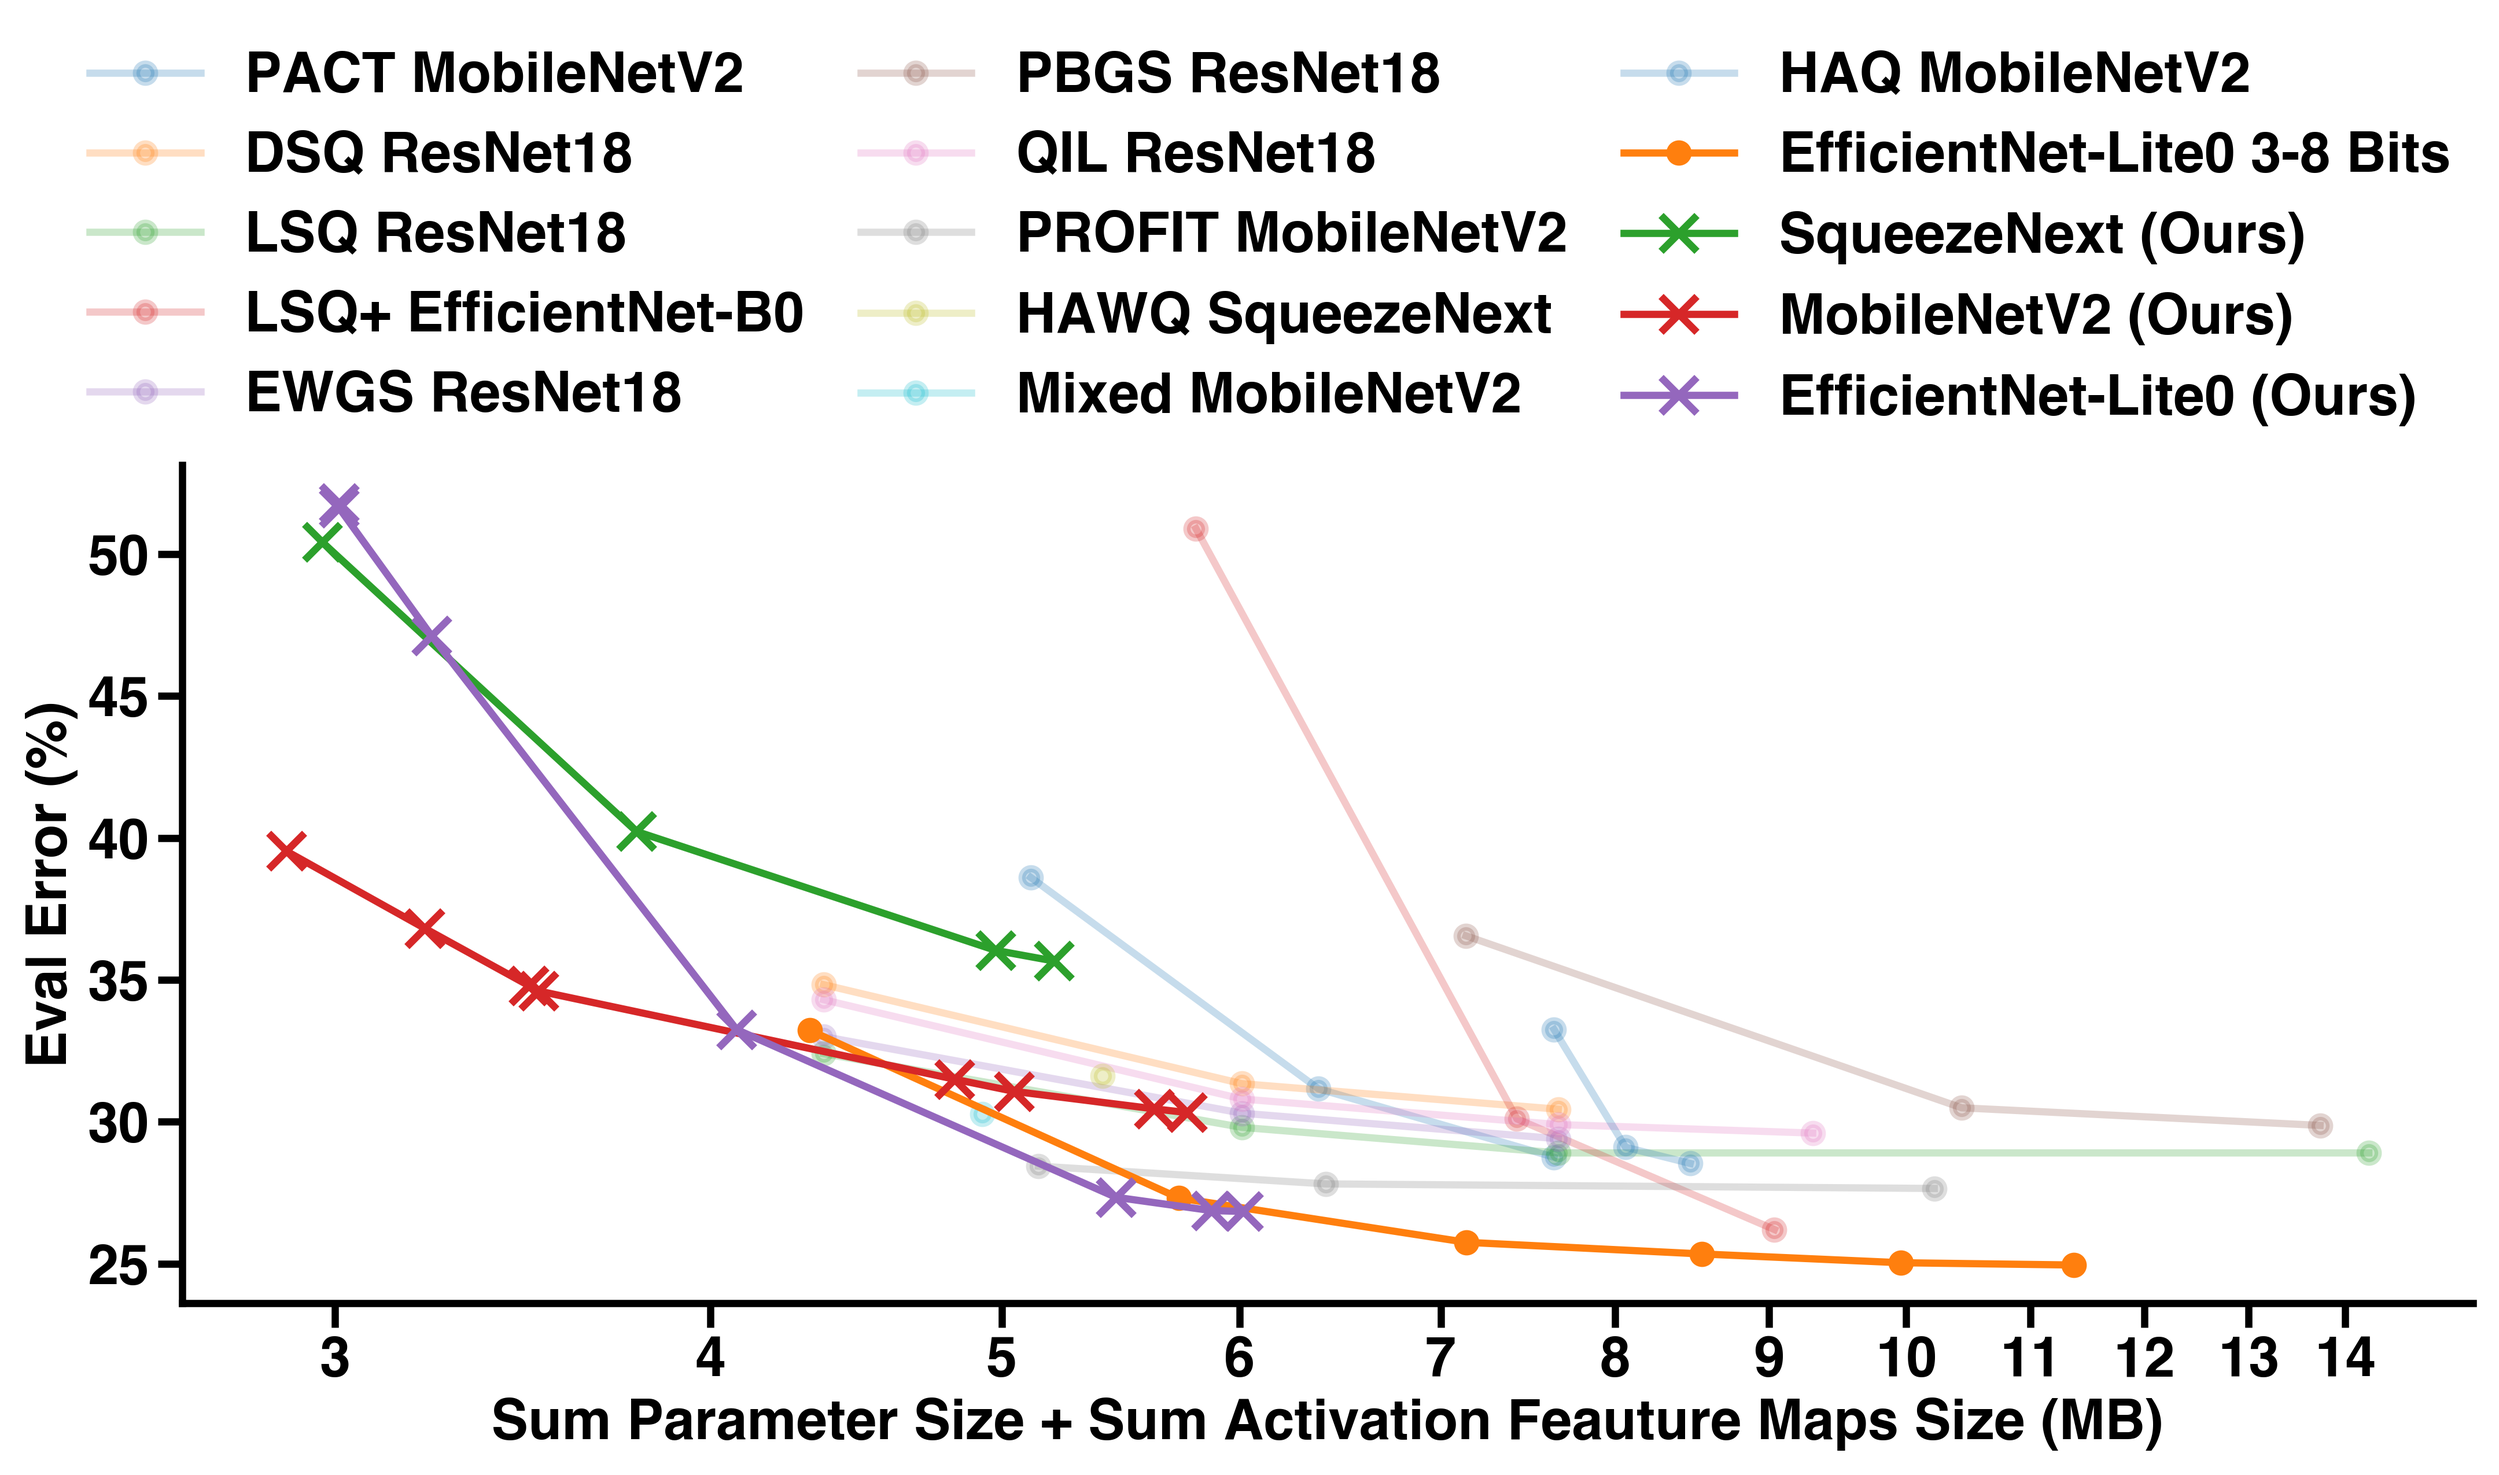
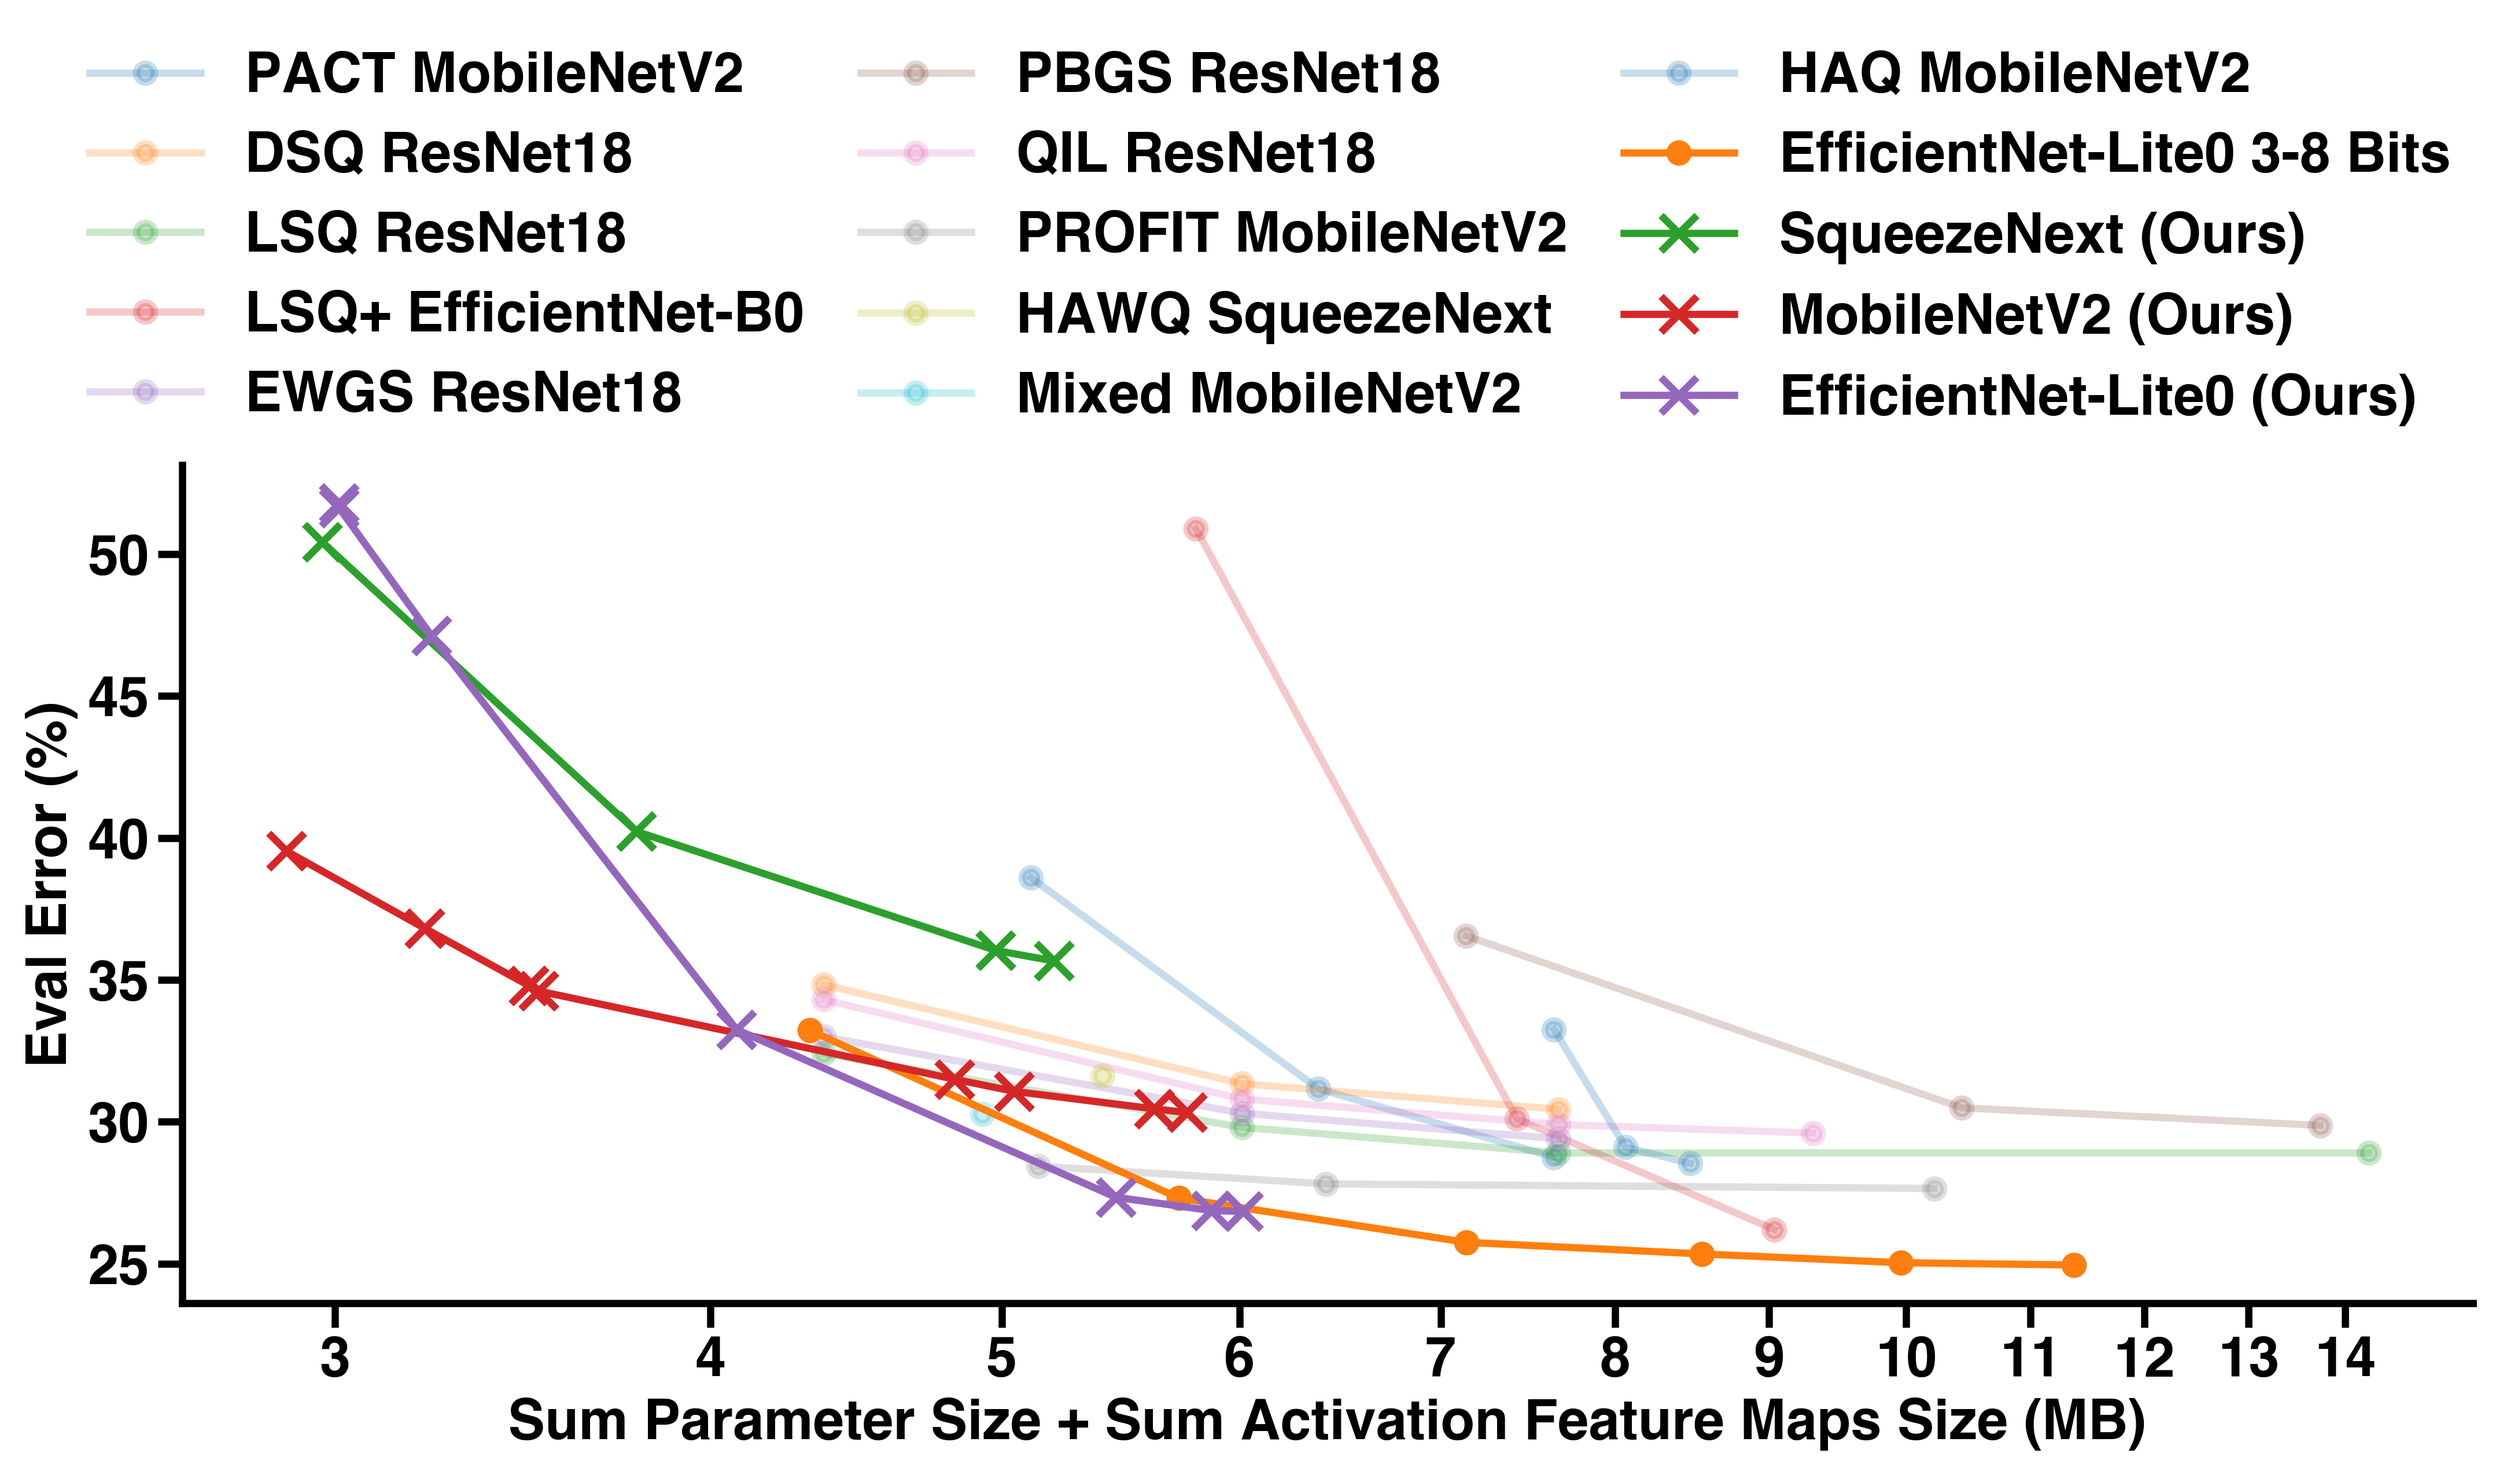
normal - small fixes

Changed region(s): [[0.1875, 0.9294, 0.875, 0.9914]]

diff --git a/examples/efficientnet/visualization.py b/examples/efficientnet/visualization.py
@@ -482,7 +482,7 @@ def plot_comparison(name):
   ax.set_xscale('log')
   plt.xticks([3, 4, 5, 6, 7, 8, 9, 10, 11, 12, 13, 14], [
       '3', '4', '5', '6', '7', '8', '9', '10', '11', '12', '13', '14'])
-  ax.set_xlabel("Sum Parameter Size + Sum Activation Feauture Maps Size (MB)",
+  ax.set_xlabel("Sum Parameter Size + Sum Activation Feature Maps Size (MB)",
                 fontsize=font_size, fontweight='bold')
   ax.set_ylabel("Eval Error (%)", fontsize=font_size, fontweight='bold')
   plt.legend(
@@ -534,7 +534,7 @@ def plot_meth_sur():
   fig, ax = plt.subplots(nrows=1, ncols=2, figsize=(14.4, 6.5))
 
   textst1 = 'Configurations:\n\na)\nb)\nc)\nd)\ne)\nf)\ng)\nh)\ni)\nj)'
-  textst2 = '\nWgt.\nSTE\nSTE\nSTE\nPBGS\nEWGS\nATanh\nAcos\nATanh\nPBGS\nEWGS'
+  textst2 = '\nWgt.\nSTE\nSTE\nSTE\nPBGS\nEWGS\nATanh\n|Cos|\nATanh\nPBGS\nEWGS'
   textst3 = '\nAct.\nPBGS\nEWGS\nATanh\nSTE\nSTE\nSTE\nSTE\nEWGS\nATanh\nATanh'
 
   plt.text(.88, 0.25, textst1, fontsize=20,
@@ -611,7 +611,7 @@ def plot_meth_sur():
   ax[0].plot(x, x, linewidth=gen_linewidth, label='EWGS',
              linestyle='--', color='purple')
   ax[0].plot(x, np.sin(np.pi * (.5 * x - np.round(.5 * x))),
-             linewidth=gen_linewidth, label='ACos', color='b')
+             linewidth=gen_linewidth, label='|Cos|', color='b')
   ax[0].plot(x, np.tanh(x * 4), linewidth=gen_linewidth,
              label='Tanh', color='r')
   ax[0].plot(x, np.arctanh(x / 1.05) / 1.85,
